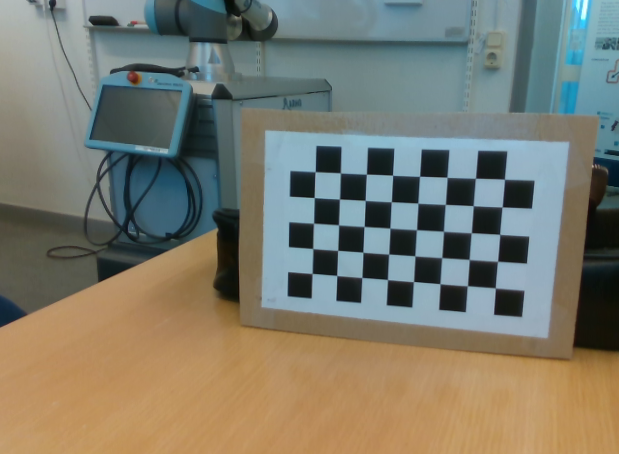
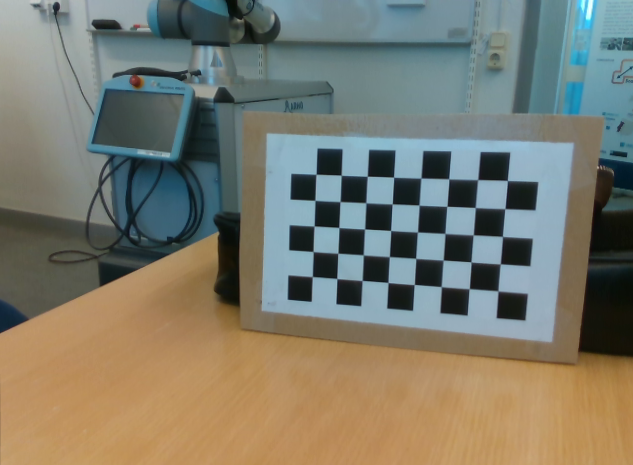
added calibration for 1280x720 images

diff --git a/oskars_wacky_testbed/real_sense_camera/capture_calibration_images.py b/oskars_wacky_testbed/real_sense_camera/capture_calibration_images.py
@@ -16,12 +16,14 @@ pipeline_wrapper = rs.pipeline_wrapper(pipeline)
 pipeline_profile = config.resolve(pipeline_wrapper)
 device = pipeline_profile.get_device()
 device_product_line = str(device.get_info(rs.camera_info.product_line))
-config.enable_stream(rs.stream.color, 1920, 1080, rs.format.rgb8, 30)
-config.enable_stream(rs.stream.depth, 640, 480, rs.format.z16, 30)
+# config.enable_stream(rs.stream.color, 1920, 1080, rs.format.rgb8, 30)
+# config.enable_stream(rs.stream.depth, 640, 480, rs.format.z16, 30)
+config.enable_stream(rs.stream.color, 1280, 720, rs.format.rgb8, 30)
+config.enable_stream(rs.stream.depth, 1280, 720, rs.format.z16, 30)
 found_rgb = False
 
 # checking if  images dir is exist not, if not then create images directory
-image_dir_path = "./images_real_sense_1920"
+image_dir_path = "./images_real_sense_1280"
 
 CHECK_DIR = os.path.isdir(image_dir_path)
 # if directory does not exist create

diff --git a/oskars_wacky_testbed/real_sense_camera/camera_calibration.py b/oskars_wacky_testbed/real_sense_camera/camera_calibration.py
@@ -11,8 +11,10 @@ from extract_realsense_parameters import ExtractParameters
 
 chessboardSize = (7, 10)
 size_of_chessboard_squares_mm = 15
-calib_data_path = '/home/oskarlarsson/PycharmProjects/Vision-For-Robotic-RL/oskars_wacky_testbed/real_sense_camera/calib_data_1920'
-image_path = '/home/oskarlarsson/PycharmProjects/Vision-For-Robotic-RL/oskars_wacky_testbed/real_sense_camera/images_real_sense_1920/*.png'
+IMAGE_FOLDER_NAME = "images_real_sense_1280"
+CALIB_DATA_NAME = "calib_data_1280"
+calib_data_path = f'/home/oskarlarsson/PycharmProjects/Vision-For-Robotic-RL/oskars_wacky_testbed/real_sense_camera/{CALIB_DATA_NAME}'
+image_path = f'/home/oskarlarsson/PycharmProjects/Vision-For-Robotic-RL/oskars_wacky_testbed/real_sense_camera/{IMAGE_FOLDER_NAME}/*.png'
 
 CHECK_DIR = os.path.isdir(calib_data_path)
 

diff --git a/oskars_wacky_testbed/real_sense_camera/extract_realsense_parameters.py b/oskars_wacky_testbed/real_sense_camera/extract_realsense_parameters.py
@@ -1,7 +1,7 @@
 import pyrealsense2 as rs
 
-COLOR_WIDTH = 1920
-COLOR_HEIGHT = 1080
+COLOR_WIDTH = 1280
+COLOR_HEIGHT = 720
 
 
 class ExtractParameters(object):
